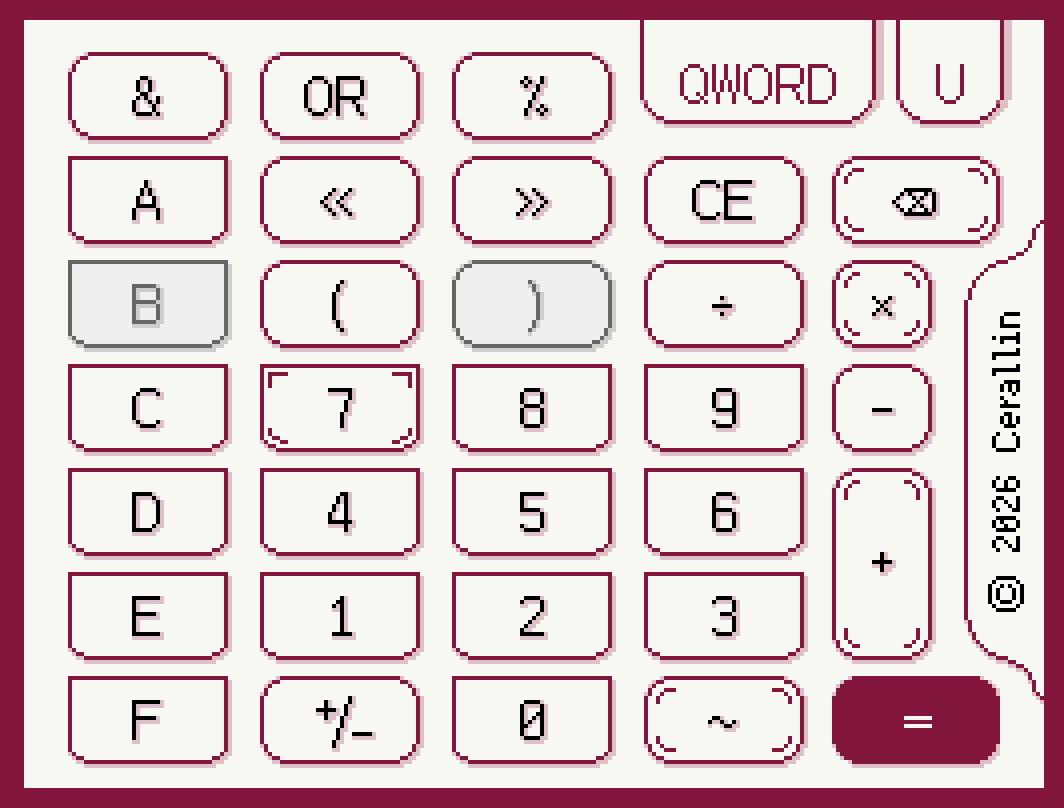
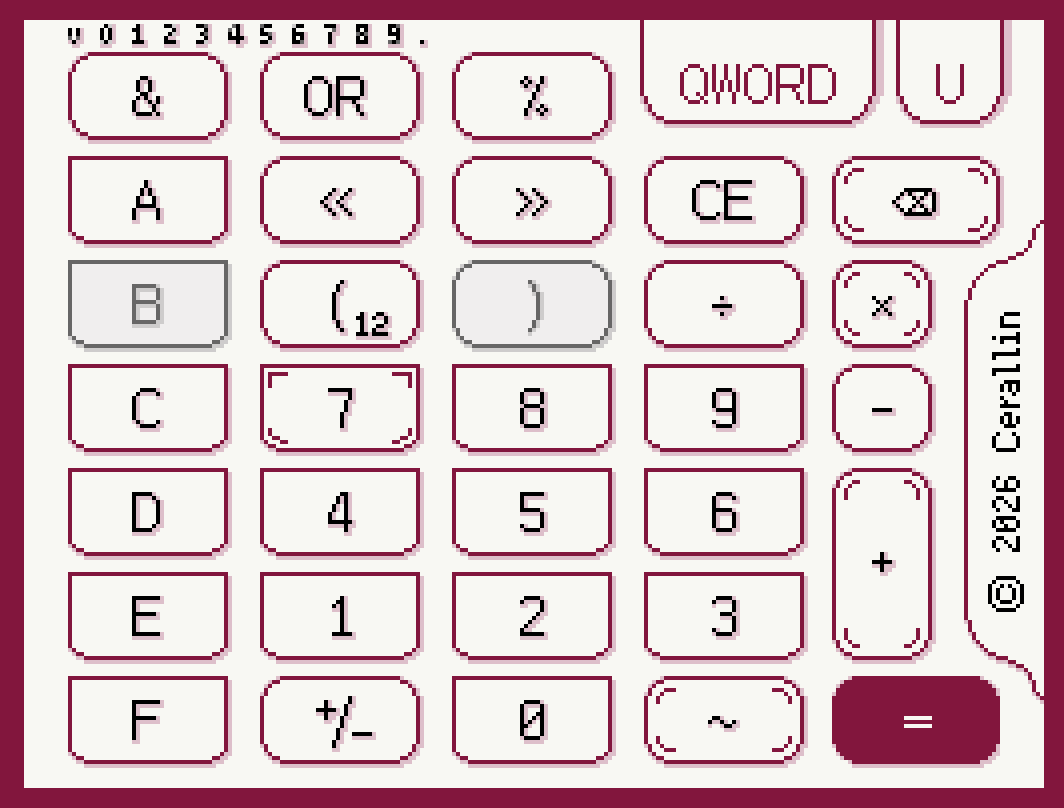
feat(theme): Add color themes

Changed region(s): [[0.062, 0.0309, 0.4032, 0.0619], [0.3412, 0.3713, 0.3722, 0.4332]]

diff --git a/subscreen_maker/run.py b/subscreen_maker/run.py
@@ -5,12 +5,20 @@ Copyright (C) 2026  Cerallin
 SPDX-License-Identifier: GPL-2.0-or-later
 """
 
+import os
 import sys
 from image import Palette, IndexedImage, Bmp8Writer, ImagePreprocessor
-from contour import ContourAnalyzer, ContourRecord
-from contour import hex_to_bgr, hex_to_rgb
+from contour import ContourAnalyzer, ContourRecord, hex_to_bgr, rgb_to_16bit
+from color_theme import LightTheme, DarkTheme
 
 DEBUG = False
+
+lightTheme = LightTheme()
+darkTheme = DarkTheme()
+
+defaultTheme = lightTheme
+
+theme = lightTheme
 
 
 class HexCalculatorExporter:
@@ -19,7 +27,7 @@ class HexCalculatorExporter:
         self.image = image
 
     def preprocess(self):
-        bg = hex_to_bgr(ContourAnalyzer.BG_COLORS[0])
+        bg = hex_to_bgr(defaultTheme.BG_COLORS[0])
 
         # numbers
         ImagePreprocessor.fill_rect(self.image, (0, 0), (75, 12), bg)
@@ -34,7 +42,7 @@ class HexCalculatorExporter:
     def analyze(self):
 
         mask = ContourAnalyzer.build_mask(
-            self.image, ContourAnalyzer.BORDER_COLORS)
+            self.image, defaultTheme.BORDER_COLORS)
 
         contours = ContourAnalyzer.find_contours(mask)
 
@@ -44,26 +52,26 @@ class HexCalculatorExporter:
             rec = ContourRecord(c)
 
             rec.shadow_points = ContourAnalyzer.collect_outer_ring(
-                self.image, c, ContourAnalyzer.SHADOW_COLORS)
+                self.image, c, defaultTheme.SHADOW_COLORS)
 
             inner = ContourAnalyzer.collect_inner_colors(self.image, c)
 
             button_activated: bool = any(
-                k in ContourAnalyzer.BG_COLORS[0] for k in inner.keys())
+                k in defaultTheme.BG_COLORS[0] for k in inner.keys())
 
             if button_activated:
                 colors_to_check = {
-                    "text": ContourAnalyzer.TEXT_COLORS[0],
-                    "bg": ContourAnalyzer.BG_COLORS[0],
-                    "shadow": ContourAnalyzer.SHADOW_COLORS[0],
-                    "sign": ContourAnalyzer.BORDER_COLORS[0],
+                    "text": defaultTheme.TEXT_COLORS[0],
+                    "bg": defaultTheme.BG_COLORS[0],
+                    "shadow": defaultTheme.SHADOW_COLORS[0],
+                    "sign": defaultTheme.BORDER_COLORS[0],
                 }
             else:
                 colors_to_check = {
-                    "text": ContourAnalyzer.TEXT_COLORS[1],
-                    "bg": ContourAnalyzer.BG_COLORS[1],
-                    "shadow": ContourAnalyzer.SHADOW_COLORS[1],
-                    "sign": ContourAnalyzer.BORDER_COLORS[1],
+                    "text": defaultTheme.TEXT_COLORS[1],
+                    "bg": defaultTheme.BG_COLORS[1],
+                    "shadow": defaultTheme.SHADOW_COLORS[1],
+                    "sign": defaultTheme.BORDER_COLORS[1],
                 }
 
             for k, pts in inner.items():
@@ -119,9 +127,9 @@ class HexCalculatorExporter:
             self.image, copyright_record.contour)
 
         for k, pts in copyright_inner.items():
-            if k == ContourAnalyzer.BG_COLORS[0]:
+            if k == defaultTheme.BG_COLORS[0]:
                 copyright_record.bg_points = pts
-            elif k == ContourAnalyzer.BORDER_COLORS[0]:
+            elif k == defaultTheme.BORDER_COLORS[0]:
                 copyright_record.contour_points = pts
             else:
                 pass
@@ -139,27 +147,9 @@ class HexCalculatorExporter:
 
         # palette for demo view
         palette.generate_demo(
-            common := [
-                hex_to_rgb(ContourAnalyzer.BORDER_COLORS[0]),   # contour
-                hex_to_rgb(ContourAnalyzer.SHADOW_COLORS[0]),   # shadow
-                hex_to_rgb(ContourAnalyzer.TEXT_COLORS[0]),     # text
-                hex_to_rgb(ContourAnalyzer.BG_COLORS[0]),       # bg
-                hex_to_rgb(ContourAnalyzer.BG_COLORS[0]),       # sign (hidden)
-            ],
-            disabled := [
-                hex_to_rgb(ContourAnalyzer.BORDER_COLORS[1]),   # contour
-                hex_to_rgb(ContourAnalyzer.SHADOW_COLORS[1]),   # shadow
-                hex_to_rgb(ContourAnalyzer.TEXT_COLORS[1]),     # text
-                hex_to_rgb(ContourAnalyzer.BG_COLORS[1]),       # bg
-                hex_to_rgb(ContourAnalyzer.BG_COLORS[1]),       # sign (hidden)
-            ],
-            selected := [
-                hex_to_rgb(ContourAnalyzer.BORDER_COLORS[0]),   # contour
-                hex_to_rgb(ContourAnalyzer.SHADOW_COLORS[0]),   # shadow
-                hex_to_rgb(ContourAnalyzer.TEXT_COLORS[0]),     # text
-                hex_to_rgb(ContourAnalyzer.BG_COLORS[0]),       # bg
-                hex_to_rgb(ContourAnalyzer.BORDER_COLORS[0]),   # sign
-            ],
+            theme.common(),
+            theme.disabled(),
+            theme.selected(),
             len(records),
             offset=16,  # remain for text layer (4bpp) colors
         )
@@ -183,8 +173,11 @@ class HexCalculatorExporter:
 
         return img, palette
 
-    def build_c_header(self, records, output_file):
-        with open(output_file, "w") as f:
+    def build_c_header(self, records, output_dir, prefix):
+        output_area_file = os.path.join(output_dir, f"{prefix}.h")
+        output_color_file = os.path.join(output_dir, f"{prefix}Colors.h")
+
+        with open(output_area_file, "w") as f:
             f.write("#ifndef SUBSCREEN_AREA_H\n")
             f.write("#define SUBSCREEN_AREA_H\n\n")
             for idx, rec in enumerate(records):
@@ -196,6 +189,36 @@ class HexCalculatorExporter:
                 f.write("\n")
             f.write("\n")
             f.write("#endif // SUBSCREEN_AREA_H\n")
+
+        with open(output_color_file, "w") as f:
+            f.write("#ifndef SUBSCREEN_COLOR_H\n")
+            f.write("#define SUBSCREEN_COLOR_H\n\n")
+
+            colors = theme.common()
+            f.write("// Common colors\n")
+            f.write(f"#define COLOR_COMMON_BORDER {rgb_to_16bit(*colors[0]):#06x}\n")
+            f.write(f"#define COLOR_COMMON_SHADOW {rgb_to_16bit(*colors[1]):#06x}\n")
+            f.write(f"#define COLOR_COMMON_TEXT   {rgb_to_16bit(*colors[2]):#06x}\n")
+            f.write(f"#define COLOR_COMMON_BG     {rgb_to_16bit(*colors[3]):#06x}\n")
+            f.write(f"#define COLOR_COMMON_SIGN   {rgb_to_16bit(*colors[4]):#06x}\n")
+
+            colors = theme.disabled()
+            f.write("// Disabled colors\n")
+            f.write(f"#define COLOR_DISABLED_BORDER {rgb_to_16bit(*colors[0]):#06x}\n")
+            f.write(f"#define COLOR_DISABLED_SHADOW {rgb_to_16bit(*colors[1]):#06x}\n")
+            f.write(f"#define COLOR_DISABLED_TEXT   {rgb_to_16bit(*colors[2]):#06x}\n")
+            f.write(f"#define COLOR_DISABLED_BG     {rgb_to_16bit(*colors[3]):#06x}\n")
+            f.write(f"#define COLOR_DISABLED_SIGN   {rgb_to_16bit(*colors[4]):#06x}\n")
+
+            colors = theme.selected()
+            f.write("// Selected colors\n")
+            f.write(f"#define COLOR_SELECTED_BORDER {rgb_to_16bit(*colors[0]):#06x}\n")
+            f.write(f"#define COLOR_SELECTED_SHADOW {rgb_to_16bit(*colors[1]):#06x}\n")
+            f.write(f"#define COLOR_SELECTED_TEXT   {rgb_to_16bit(*colors[2]):#06x}\n")
+            f.write(f"#define COLOR_SELECTED_BG     {rgb_to_16bit(*colors[3]):#06x}\n")
+            f.write(f"#define COLOR_SELECTED_SIGN   {rgb_to_16bit(*colors[4]):#06x}\n")
+
+            f.write("\n#endif // SUBSCREEN_COLOR_H\n")
 
     def export(self, output_file):
         self.preprocess()
@@ -209,7 +232,9 @@ class HexCalculatorExporter:
                       f"{len(rec.bg_points):3} bg,\t"
                       f"{len(rec.sign_points):2} sign")
 
-        self.build_c_header(records, output_file.replace(".bmp", ".h"))
+        output_dir = os.path.dirname(output_file)
+        prefix = os.path.splitext(os.path.basename(output_file))[0]
+        self.build_c_header(records, output_dir, prefix)
 
         h, w, _ = self.image.shape
         image, palette = self.build_image(records, w, h)

diff --git a/source/display.cc b/source/display.cc
@@ -10,6 +10,7 @@
 // assets
 #include "mainFont.h"
 #include "subFont.h"
+#include "subscreenAreaColors.h"
 #include "subscreenImage.h"
 
 using namespace HexCalc;
@@ -18,6 +19,28 @@ static constexpr int VRAM_C_SIZE = 128 * 1024;    // 128 Kb
 static constexpr int bmpBaseBankSize = 16 * 1024; // 16 Kb
 static constexpr int mapBaseBankSize = 2048;      // 2 Kb
 static constexpr int byteSize = 8;
+
+constexpr int16_t mainPal[] = {
+    0x0000,
+    COLOR_COMMON_BG,
+    COLOR_COMMON_BORDER,
+    COLOR_COMMON_TEXT,
+    COLOR_COMMON_SHADOW,
+    COLOR_DISABLED_BG,
+    COLOR_DISABLED_SHADOW,
+    COLOR_DISABLED_BORDER,
+};
+
+constexpr int16_t subPal[] = {
+    0x0000,
+    COLOR_COMMON_BG,
+    COLOR_COMMON_BORDER,
+    COLOR_COMMON_TEXT,
+    COLOR_COMMON_SHADOW,
+    COLOR_DISABLED_BG,
+    COLOR_DISABLED_SHADOW,
+    COLOR_DISABLED_BORDER,
+};
 
 static constexpr auto
 align64(int x) {
@@ -47,9 +70,8 @@ MainDisplay::MainDisplay(void)
     }
 
     // copy font palette
-    // TODO more themes
-    dmaCopy(mainFontPal, BG_PALETTE, mainFontPalLen);
-    SetBackdrop(31, 31, 30);
+    dmaCopy(mainPal, BG_PALETTE, sizeof(mainPal));
+    SetBackdrop(COLOR_COMMON_BG);
 
     // cope font tiles
     decompress(mainFontTiles, bgGetGfxPtr(this->layers[0].GetBg()), LZ77Vram);
@@ -126,9 +148,11 @@ SubDisplay::SubDisplay(void)
     // copy image palette
     dmaCopy(subscreenImagePal, BG_PALETTE_SUB, subscreenImagePalLen);
     // copy font palette
-    dmaCopy(subFontPal, BG_PALETTE_SUB, BIT(Bpp) * sizeof(uint16_t));
+    static_assert((sizeof(subPal) / sizeof(subPal[0])) <= BIT(Bpp),
+                  "sub palette has too many colors");
+    dmaCopy(subPal, BG_PALETTE_SUB, sizeof(subPal));
     // Set backdrop color
-    SetBackdrop(31, 31, 30);
+    SetBackdrop(COLOR_COMMON_BG);
 
     // set up palettes for button states
     enabledPalette = &BG_PALETTE_SUB[MaxColorCount - (3 * ColorCount)];

diff --git a/subscreen_maker/color_theme.py b/subscreen_maker/color_theme.py
@@ -1,0 +1,48 @@
+"""
+HexCalculatorDS - An integer calculator for Nintendo DS.
+Copyright (C) 2026  Cerallin
+
+SPDX-License-Identifier: GPL-2.0-or-later
+"""
+from contour import hex_to_rgb
+
+
+class ColorTheme:
+    def common(self):
+        return [
+            hex_to_rgb(self.BORDER_COLORS[0]),   # contour
+            hex_to_rgb(self.SHADOW_COLORS[0]),   # shadow
+            hex_to_rgb(self.TEXT_COLORS[0]),     # text
+            hex_to_rgb(self.BG_COLORS[0]),       # bg
+            hex_to_rgb(self.BG_COLORS[0]),       # sign (hidden)
+        ]
+
+    def disabled(self):
+        return [
+            hex_to_rgb(self.BORDER_COLORS[1]),   # contour
+            hex_to_rgb(self.SHADOW_COLORS[1]),   # shadow
+            hex_to_rgb(self.TEXT_COLORS[1]),     # text
+            hex_to_rgb(self.BG_COLORS[1]),       # bg
+            hex_to_rgb(self.BG_COLORS[1]),       # sign (hidden)
+        ]
+
+    def selected(self):
+        return [
+            hex_to_rgb(self.BORDER_COLORS[0]),   # contour
+            hex_to_rgb(self.SHADOW_COLORS[0]),   # shadow
+            hex_to_rgb(self.TEXT_COLORS[0]),     # text
+            hex_to_rgb(self.BG_COLORS[0]),       # bg
+            hex_to_rgb(self.BORDER_COLORS[0]),   # sign (same as contour)
+        ]
+
+class LightTheme(ColorTheme):
+    BORDER_COLORS = ["82163d", "676666"]
+    SHADOW_COLORS = ["ddbfca", "cecccc"]
+    TEXT_COLORS = ["000000", "676666"]
+    BG_COLORS = ["f8f8f3", "f0eeee"]
+
+class DarkTheme(ColorTheme):
+    BORDER_COLORS = ["ddbfca", "676666"]
+    SHADOW_COLORS = ["82163d", "404034"]
+    TEXT_COLORS = ["f8f2ff", "676666"]
+    BG_COLORS = ["1c1822", "343430"]

diff --git a/source/sprite.cc b/source/sprite.cc
@@ -5,15 +5,28 @@
  * SPDX-License-Identifier: GPL-2.0-or-later
  */
 #include "sprite.h"
+#include "display.h"
 #include "font.h"
 #include "project.h"
 
 #include "subNumber.h"
 #include "subVersion.h"
+#include "subscreenAreaColors.h"
 
 #define _(str) versionStrFont(str)
 
 using namespace HexCalc;
+
+constexpr int16_t subSpritePal[] = {
+    0x0000,
+    COLOR_COMMON_BG,
+    COLOR_COMMON_BORDER,
+    COLOR_COMMON_TEXT,
+    COLOR_COMMON_SHADOW,
+    COLOR_DISABLED_BG,
+    COLOR_DISABLED_SHADOW,
+    COLOR_DISABLED_BORDER,
+};
 
 MainSpriteManager::MainSpriteManager(void) : SpriteManager<MainDisplay>() {
     // not implemented yet
@@ -25,7 +38,10 @@ SubSpriteManager::SubSpriteManager(void) : SpriteManager<SubDisplay>() {
     oamInit(&oamState, SpriteMapping_1D_256, false);
     // Load shared graphics for numbers
     decompress(subNumberTiles, SpriteGfx(), LZ77Vram);
-    dmaCopy(subNumberPal, SPRITE_PALETTE_SUB, 16 * sizeof(uint16_t));
+    static_assert((sizeof(subSpritePal) / sizeof(uint16_t)) <=
+                      BIT(SubDisplay::Bpp),
+                  "Palette size exceeds color format limit");
+    dmaCopy(subSpritePal, SPRITE_PALETTE_SUB, sizeof(subSpritePal));
 
     // Load shared graphics for version numbers
     decompress(subVersionTiles, SpriteGfx() + 16 * TileBytes / sizeof(uint16_t),

diff --git a/subscreen_maker/contour.py b/subscreen_maker/contour.py
@@ -30,9 +30,16 @@ def hex_to_rgb(hex_color: str):
     b = int(hex_color[4:6], 16)
     return (r, g, b)
 
+def rgb_to_16bit(r, g, b):
+    """
+    Convert 24-bit RGB color to 16-bit (NDS) format.
+    """
+    r5 = (r * 31) // 255
+    g5 = (g * 31) // 255
+    b5 = (b * 31) // 255
+    return (r5) | (g5 << 5) | (b5 << 10)
 
-
-def contour_shape_key(contour, tolorence = 0.1) -> bytes:
+def contour_shape_key(contour, tolorence=0.1) -> bytes:
     """
     Generate a shape key for a contour, invariant to translation and point order.
 
@@ -57,14 +64,7 @@ def contour_shape_key(contour, tolorence = 0.1) -> bytes:
     return pts.tobytes()
 
 
-
 class ContourAnalyzer:
-
-    BORDER_COLORS = ["82163d", "676666"]
-    SHADOW_COLORS = ["ddbfca", "cecccc"]
-    TEXT_COLORS = ["000000", "676666"]
-    BG_COLORS = ["f8f8f3", "f0eeee"]
-
     @staticmethod
     def build_mask(image, hex_colors):
         mask = np.zeros(image.shape[:2], dtype=np.uint8)
